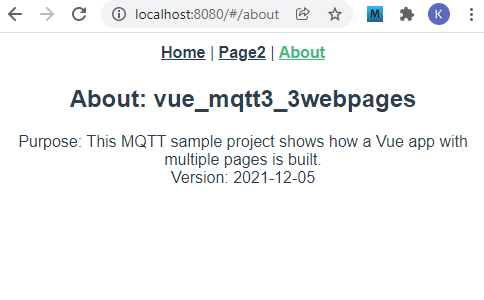
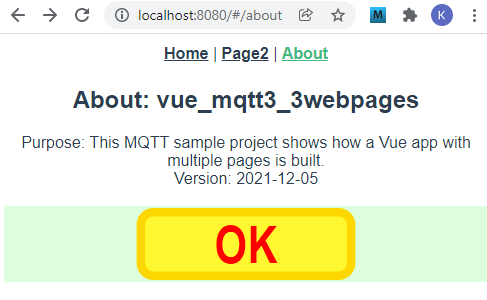
Vue project with multiple web pages: Update About page

diff --git a/source_Vue/vue_mqtt3_3webpages/src/views/About.vue b/source_Vue/vue_mqtt3_3webpages/src/views/About.vue
@@ -3,6 +3,29 @@
     <h2>About: vue_mqtt3_3webpages</h2>
     Purpose: This MQTT sample project shows how a Vue app with multiple
     pages is built.<br>
-    Version: 2021-12-05<br>
-</div>
+    Version: 2021-12-05<br><br>
+  </div>
+  <svg viewBox="0 0 230 36" width="100%">
+  <rect class="ciBackground" x="0" y="0" width="230" height="36" />
+  <rect @click="onClk()" x="65" y="3" rx=6 ry=6 width="100" height="30" fill="#FFF831" stroke="gold" stroke-width="4"/>
+  <text @click="onClk()" x="100" y="27" textLength="30" lengthAdjust="spacingAndGlyphs" class="fontAbout">OK</text>
+</svg>
 </template>
+
+<script lang="ts">
+import { defineComponent } from 'vue'
+export default defineComponent({
+  components: {
+  },
+  methods: {
+    onClk: function () {
+      console.log('CLICK - About: onClk!', '')
+      this.$router.push({name: 'Home'})
+    }
+  }
+})
+</script>
+
+<style scoped>
+ .fontAbout { font: bold 24px sans-serif; fill: red; cursor: pointer; }
+</style>

diff --git a/md/m4h507_Vue_3webpages.md b/md/m4h507_Vue_3webpages.md
@@ -29,7 +29,7 @@ _Bild 3: About-Seite (About)_
 * Software: Visual Studio Code ("VSC"), das f&uuml;r Vue-Anwendungen bereits vorbereitet ist.   
    (Dh. es wurde bereits (mindestens) eine Vue-Anwendung in Visual Code erstellt.)   
 
-Fertiges Projekt: []()
+Fertiges Projekt: [https://github.com/khartinger/mqtt4home/tree/main/source_Vue/vue_mqtt3_3webpages](https://github.com/khartinger/mqtt4home/tree/main/source_Vue/vue_mqtt3_3webpages)
 
 # Erstellen des Projektes
 ## 1. Übersicht über die beteiligten Dateien
@@ -78,11 +78,18 @@ module.exports = {
 }
 ```   
 
-2. Datei für die Seite `Page2` erstellen   
+2. Linter-Warnung "Unexpected any" bei "(value: any)" abstellen    
+  In der Datei `.eslintrc.js` unter "`rules: {`" erg&auml;nzen:   
+  ```   
+  '@typescript-eslint/no-explicit-any': 'off',
+  '@typescript-eslint/explicit-module-boundary-types': 'off'
+  ```   
+
+3. Datei für die Seite `Page2` erstellen   
 Mit der linken Maustaste auf `views/About.vou`klicken, Datei mit &lt;strg&gt; c und &lt;strg&gt; v kopieren und die Kopie auf `Page2.vue` umbenennen (zB mit dem Hilfsmenü mit der rechten Maustaste).   
 In der Datei `Page2.vue` die Zeile `<h1>This is Page2</h1>` anpassen.   
 
-3. Anpassen der "Routen" in der automatisch erstellten Datei `router/index.ts`:   
+4. Anpassen der "Routen" in der automatisch erstellten Datei `router/index.ts`:   
 ```   
 // ___________router/index.ts___________________________________
 import { createRouter, createWebHashHistory, RouteRecordRaw } from 'vue-router'
@@ -133,7 +140,7 @@ export default router
 
 ```   
 
-4. Datei `App.vue` anpassen   
+5. Datei `App.vue` anpassen   
    1. Die Zeile `<router-link to="/page2">Page2</router-link> |` ergänzen.   
    2. Die Styles mit Punkt ergänzen.   
 _Inhalt der Datei_:   
@@ -184,18 +191,19 @@ _Inhalt der Datei_:
 </style>
 ```   
 
-5. Testen dieses Zwischenstandes   
+6. Testen dieses Zwischenstandes   
 Starten des Servers durch folgende Eingabe im Terminal:   
 `npm run serve`   
 Eingabe im Browser:   
 `localhost:8080`   
 
-6. Nicht benötigte Dateien und Verzeichnisse löschen   
+7. Nicht benötigte Dateien und Verzeichnisse löschen   
   * Datei `components/HelloWorld.vue` löschen   
   * Verzeichnis `assets` löschen   
 
 ## 4. MQTT Client ergänzen
 Verzeichnis src/services erstellen, Dateien MqttClient.ts und MqttClientInstance.ts ergänzen.   
+Erklärungen siehe "Teil 1: Erstellung des MQTT Clients" in [m4h504_Vue_PubSub2.md](m4h504_Vue_PubSub2.md)
 
 ## 5. Home-Seite erstellen
 Datei `views/Home.vue` anpassen:   
